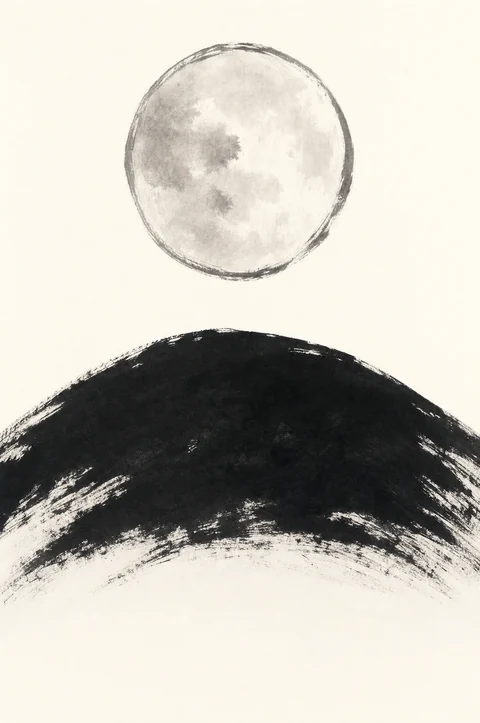
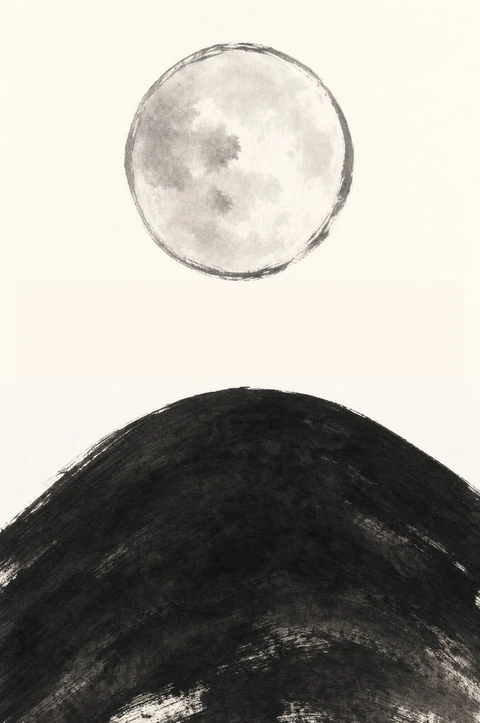
8월 광·열끗 아트를 교체하고 캐시 버스트로 게임에 반영한다.

diff --git a/index.html b/index.html
@@ -2954,8 +2954,8 @@ function buildDeck() {
   add(7, 'tti', ['chodan'], 'Assets/07_july/7-tti-chodan.webp?v=2');
   add(7, 'pi', [], 'Assets/07_july/7-pi-1.webp');
   add(7, 'pi', [], 'Assets/07_july/7-pi-2.webp');
-  add(8, 'kwang', [], 'Assets/08_august/8-gwang.webp');
-  add(8, 'yeol', ['godori'], 'Assets/08_august/8-yeolkkeut.webp');
+  add(8, 'kwang', [], 'Assets/08_august/8-gwang.webp?v=2');
+  add(8, 'yeol', ['godori'], 'Assets/08_august/8-yeolkkeut.webp?v=2');
   add(8, 'pi', [], 'Assets/08_august/8-pi-1.webp');
   add(8, 'pi', [], 'Assets/08_august/8-pi-2.webp');
   add(9, 'yeol', [], 'Assets/09_september/9-yeolkkeut.webp');
